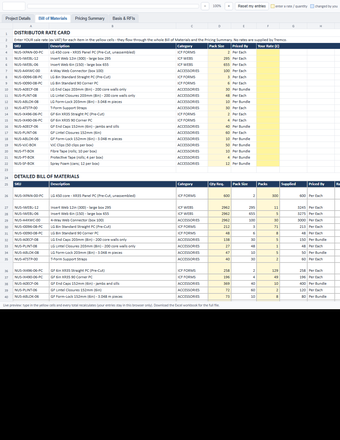
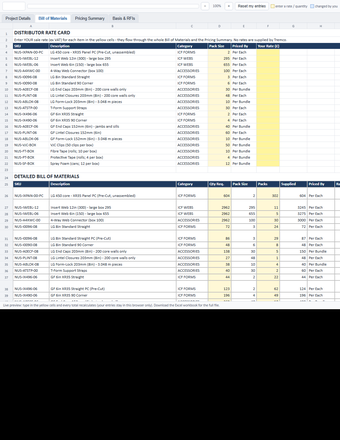
ES26-088 house Distributor BOM corrected: pre-cut forms from the Report Tool optimiser (straights 722 -> 507), 450 panels on measured lengths

Changed region(s): [[0.0, 0.5023, 1.0, 0.7091], [0.2647, 0.1477, 0.3235, 0.2068], [0.2353, 0.2364, 0.3235, 0.2659]]

diff --git a/xls/bom.html b/xls/bom.html
@@ -52,7 +52,7 @@
 <div id="tabs" role="tablist"></div>
 <div id="wrap"><div id="zoomer"><table id="grid"></table></div></div>
 <div id="note">Live preview: type in the yellow cells and every total recalculates (your entries stay in this browser only). Download the Excel workbook for the full file.</div>
-<script id="model" type="application/json">{"sheets":[{"name":"Project Details","cols":[201,495,145,215],"heights":{"13":60,"22":60},"rows":[1,2,3,4,5,6,7,8,9,10,11,12,13,14,15,16,17,18,19,20,21,22],"merges":[[22,1,22,4]],"cells":{"1,1":["Tremco CPG UK Limited",null,0],"2,1":["Cavendish House, Unit 1, Enterprise 36, Barnsley, S75 3DZ",null,1],"3,1":["BUILDEASE PRE-CUT ICF KIT",null,0],"4,1":["DISTRIBUTOR BILL OF MATERIALS",null,0],"6,1":["PROJECT DETAILS",null,2],"7,1":["Estimate Number",null,1],"7,2":["ES26-088",null,1],"8,1":["Date",null,1],"8,2":["02/11/2026",null,1],"9,1":["Valid Until",null,1],"9,2":["02/12/2026",null,1],"10,1":["Site Name",null,1],"10,2":["Badgers Hollow, Alderley Edge",null,1],"11,1":["Client (end user)",null,1],"11,2":["Mr Imran Kara",null,1],"12,1":["Distributor",null,1],"12,2":["Ethos Property Developments (Mark Whalley)",null,1],"13,1":["Scope",null,1],"13,2":["All ICF walls above the basement: Lower Ground (450 + 200 core, BDI S1 02) and GF + FF external walls in 6in XR35. Pre-cut, no waste.",null,3],"15,1":["DISTRIBUTOR DETAILS (please complete)",null,2],"16,1":["Distributor Company Name",null,1],"16,2":["Ethos Property Developments",null,4],"17,1":["Contact Name",null,1],"17,2":["Mark Whalley",null,4],"18,1":["Contact Email",null,1],"18,2":[null,null,4],"19,1":["Contact Phone",null,1],"19,2":[null,null,4],"20,1":["Your Reference",null,1],"20,2":[null,null,4],"22,1":["INSTRUCTIONS: Yellow-highlighted cells are editable. Enter your sale rates on the \"Bill of Materials\" sheet rate card; line totals and the \"Pricing Summary\" sheet update automatically.",null,3]},"freeze":null,"tab":null},{"name":"Bill of Materials","cols":[117,411,103,75,82,75,89,89,117,425,117],"heights":{},"rows":[1,2,3,4,5,6,7,8,9,10,11,12,13,14,15,16,17,18,19,20,21,22,23,24,25,26,27,28,29,30,31,32,33,34,35,36,37,38,39,40,41,42,43,44,45,46,47,48,49],"merges":[],"cells":{"1,1":["DISTRIBUTOR RATE CARD",null,0],"2,1":["Enter YOUR sale rate (ex VAT) for each item in the yellow cells - they flow through the whole Bill of Materials and the Pricing Summary. No rates are supplied by Tremco.",null,1],"3,1":["SKU",null,5],"3,2":["Description",null,5],"3,3":["Category",null,5],"3,4":["Pack Size",null,5],"3,5":["Priced By",null,5],"3,6":["Your Rate (£)",null,5],"4,1":["NUS-IXPAN-00-PC",null,1],"4,2":["LG 450 core - XR35 Panel PC (Pre-Cut, unassembled)",null,1],"4,3":["ICF FORMS",null,1],"4,4":[2,null,1,1],"4,5":["Per Each",null,1],"4,6":[null,null,6,1],"5,1":["NUS-IWEBL-12",null,1],"5,2":["Insert Web 12in (300) - large box 295",null,1],"5,3":["ICF WEBS",null,1],"5,4":[295,null,1,1],"5,5":["Per Each",null,1],"5,6":[null,null,6,1],"6,1":["NUS-IWEBL-06",null,1],"6,2":["Insert Web 6in (150) - large box 655",null,1],"6,3":["ICF WEBS",null,1],"6,4":[655,null,1,1],"6,5":["Per Each",null,1],"6,6":[null,null,6,1],"7,1":["NUS-A4XWC-00",null,1],"7,2":["4-Way Web Connector (box 100)",null,1],"7,3":["ACCESSORIES",null,1],"7,4":[100,null,1,1],"7,5":["Per Each",null,1],"7,6":[null,null,6,1],"8,1":["NUS-I0096-08-PC",null,1],"8,2":["LG 8in Standard Straight PC (Pre-Cut)",null,1],"8,3":["ICF FORMS",null,1],"8,4":[3,null,1,1],"8,5":["Per Each",null,1],"8,6":[null,null,6,1],"9,1":["NUS-I0090-08-PC",null,1],"9,2":["LG 8in Standard 90 Corner PC",null,1],"9,3":["ICF FORMS",null,1],"9,4":[6,null,1,1],"9,5":["Per Each",null,1],"9,6":[null,null,6,1],"10,1":["NUS-A0ECF-08",null,1],"10,2":["LG End Caps 203mm (8in) - 200 core walls only",null,1],"10,3":["ACCESSORIES",null,1],"10,4":[30,null,1,1],"10,5":["Per Bundle",null,1],"10,6":[null,null,6,1],"11,1":["NUS-PLINT-08",null,1],"11,2":["LG Lintel Closures 203mm (8in) - 200 core walls only",null,1],"11,3":["ACCESSORIES",null,1],"11,4":[48,null,1,1],"11,5":["Per Each",null,1],"11,6":[null,null,6,1],"12,1":["NUS-ABLOK-08",null,1],"12,2":["LG Form-Lock 203mm (8in) - 3.048 m pieces",null,1],"12,3":["ACCESSORIES",null,1],"12,4":[10,null,1,1],"12,5":["Per Bundle",null,1],"12,6":[null,null,6,1],"13,1":["NUS-ATSTP-00",null,1],"13,2":["T-Form Support Straps",null,1],"13,3":["ACCESSORIES",null,1],"13,4":[30,null,1,1],"13,5":["Per Each",null,1],"13,6":[null,null,6,1],"14,1":["NUS-IX496-06-PC",null,1],"14,2":["GF 6in XR35 Straight PC (Pre-Cut)",null,1],"14,3":["ICF FORMS",null,1],"14,4":[2,null,1,1],"14,5":["Per Each",null,1],"14,6":[null,null,6,1],"15,1":["NUS-IX490-06-PC",null,1],"15,2":["GF 6in XR35 90 Corner PC",null,1],"15,3":["ICF FORMS",null,1],"15,4":[4,null,1,1],"15,5":["Per Each",null,1],"15,6":[null,null,6,1],"16,1":["NUS-A0ECF-06",null,1],"16,2":["GF End Caps 152mm (6in) - jambs and sills",null,1],"16,3":["ACCESSORIES",null,1],"16,4":[40,null,1,1],"16,5":["Per Bundle",null,1],"16,6":[null,null,6,1],"17,1":["NUS-PLINT-06",null,1],"17,2":["GF Lintel Closures 152mm (6in)",null,1],"17,3":["ACCESSORIES",null,1],"17,4":[60,null,1,1],"17,5":["Per Each",null,1],"17,6":[null,null,6,1],"18,1":["NUS-ABLOK-06",null,1],"18,2":["GF Form-Lock 152mm (6in) - 3.048 m pieces",null,1],"18,3":["ACCESSORIES",null,1],"18,4":[10,null,1,1],"18,5":["Per Bundle",null,1],"18,6":[null,null,6,1],"19,1":["NUS-VJC-BOX",null,1],"19,2":["VJC Clips (50 clips per box)",null,1],"19,3":["ACCESSORIES",null,1],"19,4":[50,null,1,1],"19,5":["Per Bundle",null,1],"19,6":[null,null,6,1],"20,1":["NUS-FT-BOX",null,1],"20,2":["Fibre Tape (rolls; 10 per box)",null,1],"20,3":["ACCESSORIES",null,1],"20,4":[10,null,1,1],"20,5":["Per Bundle",null,1],"20,6":[null,null,6,1],"21,1":["NUS-PT-BOX",null,1],"21,2":["Protective Tape (rolls; 4 per box)",null,1],"21,3":["ACCESSORIES",null,1],"21,4":[4,null,1,1],"21,5":["Per Bundle",null,1],"21,6":[null,null,6,1],"22,1":["NUS-SF-BOX",null,1],"22,2":["Spray Foam (cans; 12 per box)",null,1],"22,3":["ACCESSORIES",null,1],"22,4":[12,null,1,1],"22,5":["Per Bundle",null,1],"22,6":[null,null,6,1],"24,1":["DETAILED BILL OF MATERIALS",null,0],"25,1":["SKU",null,7],"25,2":["Description",null,7],"25,3":["Category",null,7],"25,4":["Qty Req.",null,7],"25,5":["Pack Size",null,7],"25,6":["Packs",null,7],"25,7":["Supplied",null,7],"25,8":["Priced By",null,7],"25,9":["Rate (£)",null,7],"25,10":["Basis / Note",null,7],"25,11":["Extended Total (£)",null,7],"26,1":["NUS-IXPAN-00-PC",null,8],"26,2":["LG 450 core - XR35 Panel PC (Pre-Cut, unassembled)",null,8],"26,3":["ICF FORMS",null,8],"26,4":[600,null,8,1],"26,5":[2,null,8],"26,6":[300,null,8,1],"26,7":[600,null,8],"26,8":["Per Each",null,8],"26,9":[null,"IFERROR(VLOOKUP(A26,$A$4:$F$22,6,FALSE),\"\")",8],"26,10":["model: 200 straights + 120 cut / lapped-corner pieces (100 forms) x 2 panels (corners = lapped straights)",null,9],"26,11":[null,"IF(I26<>\"\",IF(H26=\"Per Bundle\",F26,D26)*I26,0)",10],"27,1":["NUS-IWEBL-12",null,8],"27,2":["Insert Web 12in (300) - large box 295",null,8],"27,3":["ICF WEBS",null,8],"27,4":[2962,null,8,1],"27,5":[295,null,8],"27,6":[11,null,8,1],"27,7":[3245,null,8],"27,8":["Per Each",null,8],"27,9":[null,"IFERROR(VLOOKUP(A27,$A$4:$F$22,6,FALSE),\"\")",8],"27,10":["2962 web positions counted in the model (203 c/c, none in the lapped-corner squares)",null,9],"27,11":[null,"IF(I27<>\"\",IF(H27=\"Per Bundle\",F27,D27)*I27,0)",10],"28,1":["NUS-IWEBL-06",null,8],"28,2":["Insert Web 6in (150) - large box 655",null,8],"28,3":["ICF WEBS",null,8],"28,4":[2962,null,8,1],"28,5":[655,null,8],"28,6":[5,null,8,1],"28,7":[3275,null,8],"28,8":["Per Each",null,8],"28,9":[null,"IFERROR(VLOOKUP(A28,$A$4:$F$22,6,FALSE),\"\")",8],"28,10":["paired with 12in web",null,9],"28,11":[null,"IF(I28<>\"\",IF(H28=\"Per Bundle\",F28,D28)*I28,0)",10],"29,1":["NUS-A4XWC-00",null,8],"29,2":["4-Way Web Connector (box 100)",null,8],"29,3":["ACCESSORIES",null,8],"29,4":[2962,null,8,1],"29,5":[100,null,8],"29,6":[30,null,8,1],"29,7":[3000,null,8],"29,8":["Per Each",null,8],"29,9":[null,"IFERROR(VLOOKUP(A29,$A$4:$F$22,6,FALSE),\"\")",8],"29,10":["one per web pair",null,9],"29,11":[null,"IF(I29<>\"\",IF(H29=\"Per Bundle\",F29,D29)*I29,0)",10],"30,1":["NUS-I0096-08-PC",null,8],"30,2":["LG 8in Standard Straight PC (Pre-Cut)",null,8],"30,3":["ICF FORMS",null,8],"30,4":[212,null,8,1],"30,5":[3,null,8],"30,6":[71,null,8,1],"30,7":[213,null,8],"30,8":["Per Each",null,8],"30,9":[null,"IFERROR(VLOOKUP(A30,$A$4:$F$22,6,FALSE),\"\")",8],"30,10":["model: 182 whole + 84 cut pieces (30 forms)",null,9],"30,11":[null,"IF(I30<>\"\",IF(H30=\"Per Bundle\",F30,D30)*I30,0)",10],"31,1":["NUS-I0090-08-PC",null,8],"31,2":["LG 8in Standard 90 Corner PC",null,8],"31,3":["ICF FORMS",null,8],"31,4":[48,null,8,1],"31,5":[6,null,8],"31,6":[8,null,8,1],"31,7":[48,null,8],"31,8":["Per Each",null,8],"31,9":[null,"IFERROR(VLOOKUP(A31,$A$4:$F$22,6,FALSE),\"\")",8],"31,10":["model: 6 corners x 8 courses",null,9],"31,11":[null,"IF(I31<>\"\",IF(H31=\"Per Bundle\",F31,D31)*I31,0)",10],"32,1":["NUS-A0ECF-08",null,8],"32,2":["LG End Caps 203mm (8in) - 200 core walls only",null,8],"32,3":["ACCESSORIES",null,8],"32,4":[138,null,8,1],"32,5":[30,null,8],"32,6":[5,null,8,1],"32,7":[150,null,8],"32,8":["Per Bundle",null,8],"32,9":[null,"IFERROR(VLOOKUP(A32,$A$4:$F$22,6,FALSE),\"\")",8],"32,10":["8 openings in the 200 walls (jambs) + 6 free wall ends x 8 courses",null,9],"32,11":[null,"IF(I32<>\"\",IF(H32=\"Per Bundle\",F32,D32)*I32,0)",10],"33,1":["NUS-PLINT-08",null,8],"33,2":["LG Lintel Closures 203mm (8in) - 200 core walls only",null,8],"33,3":["ACCESSORIES",null,8],"33,4":[27,null,8,1],"33,5":[48,null,8],"33,6":[1,null,8,1],"33,7":[48,null,8],"33,8":["Per Each",null,8],"33,9":[null,"IFERROR(VLOOKUP(A33,$A$4:$F$22,6,FALSE),\"\")",8],"33,10":["opening heads in the 200 walls",null,9],"33,11":[null,"IF(I33<>\"\",IF(H33=\"Per Bundle\",F33,D33)*I33,0)",10],"34,1":["NUS-ABLOK-08",null,8],"34,2":["LG Form-Lock 203mm (8in) - 3.048 m pieces",null,8],"34,3":["ACCESSORIES",null,8],"34,4":[47,null,8,1],"34,5":[10,null,8],"34,6":[5,null,8,1],"34,7":[50,null,8],"34,8":["Per Bundle",null,8],"34,9":[null,"IFERROR(VLOOKUP(A34,$A$4:$F$22,6,FALSE),\"\")",8],"34,10":["first + last course, 70.4 m of 200 wall",null,9],"34,11":[null,"IF(I34<>\"\",IF(H34=\"Per Bundle\",F34,D34)*I34,0)",10],"35,1":["NUS-ATSTP-00",null,8],"35,2":["T-Form Support Straps",null,8],"35,3":["ACCESSORIES",null,8],"35,4":[40,null,8,1],"35,5":[30,null,8],"35,6":[2,null,8,1],"35,7":[60,null,8],"35,8":["Per Each",null,8],"35,9":[null,"IFERROR(VLOOKUP(A35,$A$4:$F$22,6,FALSE),\"\")",8],"35,10":["5 T junctions x 8 courses",null,9],"35,11":[null,"IF(I35<>\"\",IF(H35=\"Per Bundle\",F35,D35)*I35,0)",10],"36,1":["NUS-IX496-06-PC",null,8],"36,2":["GF 6in XR35 Straight PC (Pre-Cut)",null,8],"36,3":["ICF FORMS",null,8],"36,4":[258,null,8,1],"36,5":[2,null,8],"36,6":[129,null,8,1],"36,7":[258,null,8],"36,8":["Per Each",null,8],"36,9":[null,"IFERROR(VLOOKUP(A36,$A$4:$F$22,6,FALSE),\"\")",8],"36,10":["model: 227 whole + 90 cut pieces (31 forms); 110.7 m outer face x 7 courses, 27 openings 38.4 m",null,9],"36,11":[null,"IF(I36<>\"\",IF(H36=\"Per Bundle\",F36,D36)*I36,0)",10],"37,1":["NUS-IX490-06-PC",null,8],"37,2":["GF 6in XR35 90 Corner PC",null,8],"37,3":["ICF FORMS",null,8],"37,4":[196,null,8,1],"37,5":[4,null,8],"37,6":[49,null,8,1],"37,7":[196,null,8],"37,8":["Per Each",null,8],"37,9":[null,"IFERROR(VLOOKUP(A37,$A$4:$F$22,6,FALSE),\"\")",8],"37,10":["model: 28 corners x 7 courses",null,9],"37,11":[null,"IF(I37<>\"\",IF(H37=\"Per Bundle\",F37,D37)*I37,0)",10],"38,1":["NUS-A0ECF-06",null,8],"38,2":["GF End Caps 152mm (6in) - jambs and sills",null,8],"38,3":["ACCESSORIES",null,8],"38,4":[369,null,8,1],"38,5":[40,null,8],"38,6":[10,null,8,1],"38,7":[400,null,8],"38,8":["Per Bundle",null,8],"38,9":[null,"IFERROR(VLOOKUP(A38,$A$4:$F$22,6,FALSE),\"\")",8],"38,10":["27 openings; XR35-specific end cap to be confirmed",null,9],"38,11":[null,"IF(I38<>\"\",IF(H38=\"Per Bundle\",F38,D38)*I38,0)",10],"39,1":["NUS-PLINT-06",null,8],"39,2":["GF Lintel Closures 152mm (6in)",null,8],"39,3":["ACCESSORIES",null,8],"39,4":[72,null,8,1],"39,5":[60,null,8],"39,6":[2,null,8,1],"39,7":[120,null,8],"39,8":["Per Each",null,8],"39,9":[null,"IFERROR(VLOOKUP(A39,$A$4:$F$22,6,FALSE),\"\")",8],"39,10":["opening heads",null,9],"39,11":[null,"IF(I39<>\"\",IF(H39=\"Per Bundle\",F39,D39)*I39,0)",10],"40,1":["NUS-ABLOK-06",null,8],"40,2":["GF Form-Lock 152mm (6in) - 3.048 m pieces",null,8],"40,3":["ACCESSORIES",null,8],"40,4":[73,null,8,1],"40,5":[10,null,8],"40,6":[8,null,8,1],"40,7":[80,null,8],"40,8":["Per Bundle",null,8],"40,9":[null,"IFERROR(VLOOKUP(A40,$A$4:$F$22,6,FALSE),\"\")",8],"40,10":["first + last course of the level",null,9],"40,11":[null,"IF(I40<>\"\",IF(H40=\"Per Bundle\",F40,D40)*I40,0)",10],"41,1":["NUS-IX496-06-PC",null,8],"41,2":["FF 6in XR35 Straight PC (Pre-Cut)",null,8],"41,3":["ICF FORMS",null,8],"41,4":[252,null,8,1],"41,5":[2,null,8],"41,6":[126,null,8,1],"41,7":[252,null,8],"41,8":["Per Each",null,8],"41,9":[null,"IFERROR(VLOOKUP(A41,$A$4:$F$22,6,FALSE),\"\")",8],"41,10":["model: 214 whole + 84 cut pieces (38 forms); 107.4 m outer face x 6 courses, 22 openings 18.9 m",null,9],"41,11":[null,"IF(I41<>\"\",IF(H41=\"Per Bundle\",F41,D41)*I41,0)",10],"42,1":["NUS-IX490-06-PC",null,8],"42,2":["FF 6in XR35 90 Corner PC",null,8],"42,3":["ICF FORMS",null,8],"42,4":[120,null,8,1],"42,5":[4,null,8],"42,6":[30,null,8,1],"42,7":[120,null,8],"42,8":["Per Each",null,8],"42,9":[null,"IFERROR(VLOOKUP(A42,$A$4:$F$22,6,FALSE),\"\")",8],"42,10":["model: 20 corners x 6 courses",null,9],"42,11":[null,"IF(I42<>\"\",IF(H42=\"Per Bundle\",F42,D42)*I42,0)",10],"43,1":["NUS-A0ECF-06",null,8],"43,2":["FF End Caps 152mm (6in) - jambs and sills",null,8],"43,3":["ACCESSORIES",null,8],"43,4":[228,null,8,1],"43,5":[40,null,8],"43,6":[6,null,8,1],"43,7":[240,null,8],"43,8":["Per Bundle",null,8],"43,9":[null,"IFERROR(VLOOKUP(A43,$A$4:$F$22,6,FALSE),\"\")",8],"43,10":["22 openings; XR35-specific end cap to be confirmed",null,9],"43,11":[null,"IF(I43<>\"\",IF(H43=\"Per Bundle\",F43,D43)*I43,0)",10],"44,1":["NUS-PLINT-06",null,8],"44,2":["FF Lintel Closures 152mm (6in)",null,8],"44,3":["ACCESSORIES",null,8],"44,4":[48,null,8,1],"44,5":[60,null,8],"44,6":[1,null,8,1],"44,7":[60,null,8],"44,8":["Per Each",null,8],"44,9":[null,"IFERROR(VLOOKUP(A44,$A$4:$F$22,6,FALSE),\"\")",8],"44,10":["opening heads",null,9],"44,11":[null,"IF(I44<>\"\",IF(H44=\"Per Bundle\",F44,D44)*I44,0)",10],"45,1":["NUS-ABLOK-06",null,8],"45,2":["FF Form-Lock 152mm (6in) - 3.048 m pieces",null,8],"45,3":["ACCESSORIES",null,8],"45,4":[71,null,8,1],"45,5":[10,null,8],"45,6":[8,null,8,1],"45,7":[80,null,8],"45,8":["Per Bundle",null,8],"45,9":[null,"IFERROR(VLOOKUP(A45,$A$4:$F$22,6,FALSE),\"\")",8],"45,10":["first + last course of the level",null,9],"45,11":[null,"IF(I45<>\"\",IF(H45=\"Per Bundle\",F45,D45)*I45,0)",10],"46,1":["NUS-VJC-BOX",null,8],"46,2":["VJC Clips (50 clips per box)",null,8],"46,3":["ACCESSORIES",null,8],"46,4":[2772,null,8,1],"46,5":[50,null,8],"46,6":[56,null,8,1],"46,7":[2800,null,8],"46,8":["Per Bundle",null,8],"46,9":[null,"IFERROR(VLOOKUP(A46,$A$4:$F$22,6,FALSE),\"\")",8],"46,10":["2 per vertical joint",null,9],"46,11":[null,"IF(I46<>\"\",IF(H46=\"Per Bundle\",F46,D46)*I46,0)",10],"47,1":["NUS-FT-BOX",null,8],"47,2":["Fibre Tape (rolls; 10 per box)",null,8],"47,3":["ACCESSORIES",null,8],"47,4":[28,null,8,1],"47,5":[10,null,8],"47,6":[3,null,8,1],"47,7":[30,null,8],"47,8":["Per Bundle",null,8],"47,9":[null,"IFERROR(VLOOKUP(A47,$A$4:$F$22,6,FALSE),\"\")",8],"47,10":["1 roll / 50 forms",null,9],"47,11":[null,"IF(I47<>\"\",IF(H47=\"Per Bundle\",F47,D47)*I47,0)",10],"48,1":["NUS-PT-BOX",null,8],"48,2":["Protective Tape (rolls; 4 per box)",null,8],"48,3":["ACCESSORIES",null,8],"48,4":[69,null,8,1],"48,5":[4,null,8],"48,6":[18,null,8,1],"48,7":[72,null,8],"48,8":["Per Bundle",null,8],"48,9":[null,"IFERROR(VLOOKUP(A48,$A$4:$F$22,6,FALSE),\"\")",8],"48,10":["per course, both sides",null,9],"48,11":[null,"IF(I48<>\"\",IF(H48=\"Per Bundle\",F48,D48)*I48,0)",10],"49,1":["NUS-SF-BOX",null,8],"49,2":["Spray Foam (cans; 12 per box)",null,8],"49,3":["ACCESSORIES",null,8],"49,4":[63,null,8,1],"49,5":[12,null,8],"49,6":[6,null,8,1],"49,7":[72,null,8],"49,8":["Per Bundle",null,8],"49,9":[null,"IFERROR(VLOOKUP(A49,$A$4:$F$22,6,FALSE),\"\")",8],"49,10":["1 can / 22 forms",null,9],"49,11":[null,"IF(I49<>\"\",IF(H49=\"Per Bundle\",F49,D49)*I49,0)",10]},"freeze":"A26","tab":null},{"name":"Pricing Summary","cols":[243,131],"heights":{},"rows":[1,2,3,4,5],"merges":[],"cells":{"1,1":["PRICING SUMMARY (from your rates)",null,0],"2,1":["ICF FORMS",null,1],"2,2":[null,"SUMIF('Bill of Materials'!C26:C49,\"ICF FORMS\",'Bill of Materials'!K26:K49)",11],"3,1":["ICF WEBS",null,1],"3,2":[null,"SUMIF('Bill of Materials'!C26:C49,\"ICF WEBS\",'Bill of Materials'!K26:K49)",11],"4,1":["ACCESSORIES",null,1],"4,2":[null,"SUMIF('Bill of Materials'!C26:C49,\"ACCESSORIES\",'Bill of Materials'!K26:K49)",11],"5,1":["TOTAL (ex VAT)",null,2],"5,2":[null,"SUM('Bill of Materials'!K26:K49)",11]},"freeze":null,"tab":null},{"name":"Basis & RFIs","cols":[1055],"heights":{},"rows":[1,2,3,4,5,6,7,8,9,10,11,12,13,14,15,16,17,18,19,20,21,22,23,24],"merges":[],"cells":{"1,1":["BASIS OF TAKE-OFF",null,0],"2,1":["- QUANTITIES TAKEN FROM THE BUILDEASE 3D MODEL (BCDS): every form placed course by course, Nudura bond checked per run, stack joints set, webs audited; pre-cut, no waste.",null,3],"3,1":["- LG: BDI 20164022 S1 02 C4 ICF walls - 450 core (blue) and 200 core (green) - from transfer deck SSL-1 43,262 to Top of ICF 46,587 (3,325 mm = 7 courses + a 125 mm pre-cut top course). Section B (S3 02 C4) confirms levels.",null,3],"4,1":["- LG run (model): 450 core 91.1 m, 200 core 70.4 m per course. S1 02 W wall 310 mm step and two 1.55 m pier boxes built straight on one 450 line; 450 walls butt the 200 front wall (no corner forms) - RFI.",null,3],"5,1":["- LG 450 core: unassembled XR35 panels + 12in/6in insert webs + 4-Way Web Connectors; every 90 corner = two straights butting and lapping, swapping every course (inner panel pre-cut back, no 450 corner form).",null,3],"6,1":["- 450 core OPENINGS: no Nudura end caps or lintel closures - timber bucks + head formwork BY OTHERS (first option), alternatively unassembled panels cut to suit. None drawn in the LG 450 walls at present.",null,3],"7,1":["- LG 200 walls: openings at the S1 02 gaps - pool front glazing 2,743 mm high (6 courses), plant-room doors 2,100; 8in end caps / lintel closures.",null,3],"8,1":["- GF/FF: the architect's external walls (Badgers Hollow - Proposed Layouts) in 6in XR35 per Tom 02.11, outline traced at 42.5 mm/pt (checked against BDI 1:50: 24.1 m vs 24.2 m overall). Chimney breasts and steps < 500 mm built straight.",null,3],"9,1":["- GF: 110.7 m outer face, 28 corners, 27 openings 38.4 m (head 2,400, 2.1 m high). FF: 107.4 m, 20 corners, 22 openings 18.9 m (head 2,400, 1.7 m high). Openings from the plan gaps; schedule RFI.",null,3],"10,1":["- GF+FF continuous from SSL0 46,987 to U/S wall plate 52,962 = 5,975 mm = 13 courses (5,944) + 31 mm packing at the plate; GF 7 courses on the GF outline, FF 6 on the FF outline.",null,3],"11,1":["- No elevations issued - gables, chimneys above the plate, parapets and exact opening heights are EXCLUDED/assumed; RFI raised.",null,3],"12,1":["- Internal walls at GF/FF excluded. Alignment, rebar, concrete, floor ledgers by others.",null,3],"14,1":["QUERIES / RFIs",null,0],"15,1":["- Elevations required: gable walls, chimneys and any walls above the wall plate are not included.",null,3],"16,1":["- Window/door schedule (sizes + head/sill heights) - openings taken from the plan gaps, heads 2,400 (GF 2.1 m / FF 1.7 m high).",null,3],"17,1":["- LG W wall step / pier boxes and the 450-to-200 butt junctions at the pool front - modelled straight / butted; BDI to confirm.",null,3],"18,1":["- Nudura bond near-misses (6-10 mm off a bond length) on GF/FF runs 567 / 5,037 / 7,052 mm - confirm dims to set them ON bond (no stack joint).",null,3],"19,1":["- Confirm no part of the Lower Ground ICF is already built (Mark: 'built part of the basement already').",null,3],"20,1":["- Confirm GF/FF internal load-bearing walls stay blockwork (not ICF).",null,3],"21,1":["- BDI to confirm the 6in XR35 (152 core) external walls for GF/FF and the floor deck bearing/ledger detail into the ICF.",null,3],"22,1":["- 450 core build-up as BOM A: 12in + 6in webs on a 4-Way Web Connector (adopted 02.11.26).",null,3],"23,1":["- 450 core panels = NUS-IXPAN-00-PC XR35 Panel; insert webs + 4-Way Web Connector not on the UK price list - availability via Tremco.",null,3],"24,1":["- Quantities only: enter your own sale rates in the rate card. Alignment, haulage and site works are not included.",null,3]},"freeze":null,"tab":null}],"styles":[{"b":1,"sz":13.0},{},{"b":1},{"wr":1},{"bg":"#fff59d"},{"b":1,"fc":"#ffffff","bg":"#1f3a5f"},{"bg":"#fff59d","nf":"#,##0.00"},{"b":1,"fc":"#ffffff","bg":"#1f3a5f","bt":[1,"#bfbfbf"],"bb":[1,"#bfbfbf"],"bl":[1,"#bfbfbf"],"br":[1,"#bfbfbf"]},{"bt":[1,"#bfbfbf"],"bb":[1,"#bfbfbf"],"bl":[1,"#bfbfbf"],"br":[1,"#bfbfbf"]},{"wr":1,"bt":[1,"#bfbfbf"],"bb":[1,"#bfbfbf"],"bl":[1,"#bfbfbf"],"br":[1,"#bfbfbf"]},{"bt":[1,"#bfbfbf"],"bb":[1,"#bfbfbf"],"bl":[1,"#bfbfbf"],"br":[1,"#bfbfbf"],"nf":"#,##0.00"},{"nf":"£#,##0.00"}],"names":{},"start":"Bill of Materials"}</script>
+<script id="model" type="application/json">{"sheets":[{"name":"Project Details","cols":[201,495,145,215],"heights":{"13":60,"22":60},"rows":[1,2,3,4,5,6,7,8,9,10,11,12,13,14,15,16,17,18,19,20,21,22],"merges":[[22,1,22,4]],"cells":{"1,1":["Tremco CPG UK Limited",null,0],"2,1":["Cavendish House, Unit 1, Enterprise 36, Barnsley, S75 3DZ",null,1],"3,1":["BUILDEASE PRE-CUT ICF KIT",null,0],"4,1":["DISTRIBUTOR BILL OF MATERIALS",null,0],"6,1":["PROJECT DETAILS",null,2],"7,1":["Estimate Number",null,1],"7,2":["ES26-088",null,1],"8,1":["Date",null,1],"8,2":["02/11/2026",null,1],"9,1":["Valid Until",null,1],"9,2":["02/12/2026",null,1],"10,1":["Site Name",null,1],"10,2":["Badgers Hollow, Alderley Edge",null,1],"11,1":["Client (end user)",null,1],"11,2":["Mr Imran Kara",null,1],"12,1":["Distributor",null,1],"12,2":["Ethos Property Developments (Mark Whalley)",null,1],"13,1":["Scope",null,1],"13,2":["All ICF walls above the basement: Lower Ground (450 + 200 core, BDI S1 02) and GF + FF external walls in 6in XR35. Pre-cut, no waste.",null,3],"15,1":["DISTRIBUTOR DETAILS (please complete)",null,2],"16,1":["Distributor Company Name",null,1],"16,2":["Ethos Property Developments",null,4],"17,1":["Contact Name",null,1],"17,2":["Mark Whalley",null,4],"18,1":["Contact Email",null,1],"18,2":[null,null,4],"19,1":["Contact Phone",null,1],"19,2":[null,null,4],"20,1":["Your Reference",null,1],"20,2":[null,null,4],"22,1":["INSTRUCTIONS: Yellow-highlighted cells are editable. Enter your sale rates on the \"Bill of Materials\" sheet rate card; line totals and the \"Pricing Summary\" sheet update automatically.",null,3]},"freeze":null,"tab":null},{"name":"Bill of Materials","cols":[117,411,103,75,82,75,89,89,117,425,117],"heights":{},"rows":[1,2,3,4,5,6,7,8,9,10,11,12,13,14,15,16,17,18,19,20,21,22,23,24,25,26,27,28,29,30,31,32,33,34,35,36,37,38,39,40,41,42,43,44,45,46,47,48,49,50,51,52],"merges":[],"cells":{"1,1":["DISTRIBUTOR RATE CARD",null,0],"2,1":["Enter YOUR sale rate (ex VAT) for each item in the yellow cells - they flow through the whole Bill of Materials and the Pricing Summary. No rates are supplied by Tremco.",null,1],"3,1":["SKU",null,5],"3,2":["Description",null,5],"3,3":["Category",null,5],"3,4":["Pack Size",null,5],"3,5":["Priced By",null,5],"3,6":["Your Rate (£)",null,5],"4,1":["NUS-IXPAN-00-PC",null,1],"4,2":["LG 450 core - XR35 Panel PC (Pre-Cut, unassembled)",null,1],"4,3":["ICF FORMS",null,1],"4,4":[2,null,1,1],"4,5":["Per Each",null,1],"4,6":[null,null,6,1],"5,1":["NUS-IWEBL-12",null,1],"5,2":["Insert Web 12in (300) - large box 295",null,1],"5,3":["ICF WEBS",null,1],"5,4":[295,null,1,1],"5,5":["Per Each",null,1],"5,6":[null,null,6,1],"6,1":["NUS-IWEBL-06",null,1],"6,2":["Insert Web 6in (150) - large box 655",null,1],"6,3":["ICF WEBS",null,1],"6,4":[655,null,1,1],"6,5":["Per Each",null,1],"6,6":[null,null,6,1],"7,1":["NUS-A4XWC-00",null,1],"7,2":["4-Way Web Connector (box 100)",null,1],"7,3":["ACCESSORIES",null,1],"7,4":[100,null,1,1],"7,5":["Per Each",null,1],"7,6":[null,null,6,1],"8,1":["NUS-I0096-08",null,1],"8,2":["LG 8in Standard Straight",null,1],"8,3":["ICF FORMS",null,1],"8,4":[3,null,1,1],"8,5":["Per Each",null,1],"8,6":[null,null,6,1],"9,1":["NUS-I0090-08",null,1],"9,2":["LG 8in Standard 90 Corner",null,1],"9,3":["ICF FORMS",null,1],"9,4":[6,null,1,1],"9,5":["Per Each",null,1],"9,6":[null,null,6,1],"10,1":["NUS-A0ECF-08",null,1],"10,2":["LG End Caps 203mm (8in) - 200 core walls only",null,1],"10,3":["ACCESSORIES",null,1],"10,4":[30,null,1,1],"10,5":["Per Bundle",null,1],"10,6":[null,null,6,1],"11,1":["NUS-PLINT-08",null,1],"11,2":["LG Lintel Closures 203mm (8in) - 200 core walls only",null,1],"11,3":["ACCESSORIES",null,1],"11,4":[48,null,1,1],"11,5":["Per Each",null,1],"11,6":[null,null,6,1],"12,1":["NUS-ABLOK-08",null,1],"12,2":["LG Form-Lock 203mm (8in) - 3.048 m pieces",null,1],"12,3":["ACCESSORIES",null,1],"12,4":[10,null,1,1],"12,5":["Per Bundle",null,1],"12,6":[null,null,6,1],"13,1":["NUS-ATSTP-00",null,1],"13,2":["T-Form Support Straps",null,1],"13,3":["ACCESSORIES",null,1],"13,4":[30,null,1,1],"13,5":["Per Each",null,1],"13,6":[null,null,6,1],"14,1":["NUS-IX496-06",null,1],"14,2":["GF 6in XR35 Straight",null,1],"14,3":["ICF FORMS",null,1],"14,4":[2,null,1,1],"14,5":["Per Each",null,1],"14,6":[null,null,6,1],"15,1":["NUS-IX490-06",null,1],"15,2":["GF 6in XR35 90 Corner",null,1],"15,3":["ICF FORMS",null,1],"15,4":[4,null,1,1],"15,5":["Per Each",null,1],"15,6":[null,null,6,1],"16,1":["NUS-A0ECF-06",null,1],"16,2":["GF End Caps 152mm (6in) - jambs and sills",null,1],"16,3":["ACCESSORIES",null,1],"16,4":[40,null,1,1],"16,5":["Per Bundle",null,1],"16,6":[null,null,6,1],"17,1":["NUS-PLINT-06",null,1],"17,2":["GF Lintel Closures 152mm (6in)",null,1],"17,3":["ACCESSORIES",null,1],"17,4":[60,null,1,1],"17,5":["Per Each",null,1],"17,6":[null,null,6,1],"18,1":["NUS-ABLOK-06",null,1],"18,2":["GF Form-Lock 152mm (6in) - 3.048 m pieces",null,1],"18,3":["ACCESSORIES",null,1],"18,4":[10,null,1,1],"18,5":["Per Bundle",null,1],"18,6":[null,null,6,1],"19,1":["NUS-VJC-BOX",null,1],"19,2":["VJC Clips (50 clips per box)",null,1],"19,3":["ACCESSORIES",null,1],"19,4":[50,null,1,1],"19,5":["Per Bundle",null,1],"19,6":[null,null,6,1],"20,1":["NUS-FT-BOX",null,1],"20,2":["Fibre Tape (rolls; 10 per box)",null,1],"20,3":["ACCESSORIES",null,1],"20,4":[10,null,1,1],"20,5":["Per Bundle",null,1],"20,6":[null,null,6,1],"21,1":["NUS-PT-BOX",null,1],"21,2":["Protective Tape (rolls; 4 per box)",null,1],"21,3":["ACCESSORIES",null,1],"21,4":[4,null,1,1],"21,5":["Per Bundle",null,1],"21,6":[null,null,6,1],"22,1":["NUS-SF-BOX",null,1],"22,2":["Spray Foam (cans; 12 per box)",null,1],"22,3":["ACCESSORIES",null,1],"22,4":[12,null,1,1],"22,5":["Per Bundle",null,1],"22,6":[null,null,6,1],"24,1":["DETAILED BILL OF MATERIALS",null,0],"25,1":["SKU",null,7],"25,2":["Description",null,7],"25,3":["Category",null,7],"25,4":["Qty Req.",null,7],"25,5":["Pack Size",null,7],"25,6":["Packs",null,7],"25,7":["Supplied",null,7],"25,8":["Priced By",null,7],"25,9":["Rate (£)",null,7],"25,10":["Basis / Note",null,7],"25,11":["Extended Total (£)",null,7],"26,1":["NUS-IXPAN-00-PC",null,8],"26,2":["LG 450 core - XR35 Panel PC (Pre-Cut, unassembled)",null,8],"26,3":["ICF FORMS",null,8],"26,4":[604,null,8,1],"26,5":[2,null,8],"26,6":[302,null,8,1],"26,7":[604,null,8],"26,8":["Per Each",null,8],"26,9":[null,"IFERROR(VLOOKUP(A26,$A$4:$F$22,6,FALSE),\"\")",8],"26,10":["model: 142 whole + 178 cut / lapped-corner pieces nested into 160 forms (measured lengths) x 2 panels; corners = lapped straights",null,9],"26,11":[null,"IF(I26<>\"\",IF(H26=\"Per Bundle\",F26,D26)*I26,0)",10],"27,1":["NUS-IWEBL-12",null,8],"27,2":["Insert Web 12in (300) - large box 295",null,8],"27,3":["ICF WEBS",null,8],"27,4":[2962,null,8,1],"27,5":[295,null,8],"27,6":[11,null,8,1],"27,7":[3245,null,8],"27,8":["Per Each",null,8],"27,9":[null,"IFERROR(VLOOKUP(A27,$A$4:$F$22,6,FALSE),\"\")",8],"27,10":["2962 web positions counted in the model (203 c/c, none in the lapped-corner squares)",null,9],"27,11":[null,"IF(I27<>\"\",IF(H27=\"Per Bundle\",F27,D27)*I27,0)",10],"28,1":["NUS-IWEBL-06",null,8],"28,2":["Insert Web 6in (150) - large box 655",null,8],"28,3":["ICF WEBS",null,8],"28,4":[2962,null,8,1],"28,5":[655,null,8],"28,6":[5,null,8,1],"28,7":[3275,null,8],"28,8":["Per Each",null,8],"28,9":[null,"IFERROR(VLOOKUP(A28,$A$4:$F$22,6,FALSE),\"\")",8],"28,10":["paired with 12in web",null,9],"28,11":[null,"IF(I28<>\"\",IF(H28=\"Per Bundle\",F28,D28)*I28,0)",10],"29,1":["NUS-A4XWC-00",null,8],"29,2":["4-Way Web Connector (box 100)",null,8],"29,3":["ACCESSORIES",null,8],"29,4":[2962,null,8,1],"29,5":[100,null,8],"29,6":[30,null,8,1],"29,7":[3000,null,8],"29,8":["Per Each",null,8],"29,9":[null,"IFERROR(VLOOKUP(A29,$A$4:$F$22,6,FALSE),\"\")",8],"29,10":["one per web pair",null,9],"29,11":[null,"IF(I29<>\"\",IF(H29=\"Per Bundle\",F29,D29)*I29,0)",10],"30,1":["NUS-I0096-08",null,8],"30,2":["LG 8in Standard Straight",null,8],"30,3":["ICF FORMS",null,8],"30,4":[72,null,8,1],"30,5":[3,null,8],"30,6":[24,null,8,1],"30,7":[72,null,8],"30,8":["Per Each",null,8],"30,9":[null,"IFERROR(VLOOKUP(A30,$A$4:$F$22,6,FALSE),\"\")",8],"30,10":["Report Tool: whole forms, no cut",null,9],"30,11":[null,"IF(I30<>\"\",IF(H30=\"Per Bundle\",F30,D30)*I30,0)",10],"31,1":["NUS-I0096-08",null,8],"31,2":["LG 8in Standard Straight PC (Pre-Cut)",null,8],"31,3":["ICF FORMS",null,8],"31,4":[86,null,8,1],"31,5":[3,null,8],"31,6":[29,null,8,1],"31,7":[87,null,8],"31,8":["Per Each",null,8],"31,9":[null,"IFERROR(VLOOKUP(A31,$A$4:$F$22,6,FALSE),\"\")",8],"31,10":["Report Tool optimiser: 194 cut pieces -> 86 pre-cut forms (12.9% waste, whole level)",null,9],"31,11":[null,"IF(I31<>\"\",IF(H31=\"Per Bundle\",F31,D31)*I31,0)",10],"32,1":["NUS-I0090-08",null,8],"32,2":["LG 8in Standard 90 Corner",null,8],"32,3":["ICF FORMS",null,8],"32,4":[48,null,8,1],"32,5":[6,null,8],"32,6":[8,null,8,1],"32,7":[48,null,8],"32,8":["Per Each",null,8],"32,9":[null,"IFERROR(VLOOKUP(A32,$A$4:$F$22,6,FALSE),\"\")",8],"32,10":["Report Tool: 6 corners x 8 courses",null,9],"32,11":[null,"IF(I32<>\"\",IF(H32=\"Per Bundle\",F32,D32)*I32,0)",10],"33,1":["NUS-A0ECF-08",null,8],"33,2":["LG End Caps 203mm (8in) - 200 core walls only",null,8],"33,3":["ACCESSORIES",null,8],"33,4":[138,null,8,1],"33,5":[30,null,8],"33,6":[5,null,8,1],"33,7":[150,null,8],"33,8":["Per Bundle",null,8],"33,9":[null,"IFERROR(VLOOKUP(A33,$A$4:$F$22,6,FALSE),\"\")",8],"33,10":["8 openings in the 200 walls (jambs) + 6 free wall ends x 8 courses",null,9],"33,11":[null,"IF(I33<>\"\",IF(H33=\"Per Bundle\",F33,D33)*I33,0)",10],"34,1":["NUS-PLINT-08",null,8],"34,2":["LG Lintel Closures 203mm (8in) - 200 core walls only",null,8],"34,3":["ACCESSORIES",null,8],"34,4":[27,null,8,1],"34,5":[48,null,8],"34,6":[1,null,8,1],"34,7":[48,null,8],"34,8":["Per Each",null,8],"34,9":[null,"IFERROR(VLOOKUP(A34,$A$4:$F$22,6,FALSE),\"\")",8],"34,10":["opening heads in the 200 walls",null,9],"34,11":[null,"IF(I34<>\"\",IF(H34=\"Per Bundle\",F34,D34)*I34,0)",10],"35,1":["NUS-ABLOK-08",null,8],"35,2":["LG Form-Lock 203mm (8in) - 3.048 m pieces",null,8],"35,3":["ACCESSORIES",null,8],"35,4":[38,null,8,1],"35,5":[10,null,8],"35,6":[4,null,8,1],"35,7":[40,null,8],"35,8":["Per Bundle",null,8],"35,9":[null,"IFERROR(VLOOKUP(A35,$A$4:$F$22,6,FALSE),\"\")",8],"35,10":["first + last course, 56.8 m of 200 wall",null,9],"35,11":[null,"IF(I35<>\"\",IF(H35=\"Per Bundle\",F35,D35)*I35,0)",10],"36,1":["NUS-ATSTP-00",null,8],"36,2":["T-Form Support Straps",null,8],"36,3":["ACCESSORIES",null,8],"36,4":[40,null,8,1],"36,5":[30,null,8],"36,6":[2,null,8,1],"36,7":[60,null,8],"36,8":["Per Each",null,8],"36,9":[null,"IFERROR(VLOOKUP(A36,$A$4:$F$22,6,FALSE),\"\")",8],"36,10":["5 T junctions x 8 courses",null,9],"36,11":[null,"IF(I36<>\"\",IF(H36=\"Per Bundle\",F36,D36)*I36,0)",10],"37,1":["NUS-IX496-06",null,8],"37,2":["GF 6in XR35 Straight",null,8],"37,3":["ICF FORMS",null,8],"37,4":[44,null,8,1],"37,5":[2,null,8],"37,6":[22,null,8,1],"37,7":[44,null,8],"37,8":["Per Each",null,8],"37,9":[null,"IFERROR(VLOOKUP(A37,$A$4:$F$22,6,FALSE),\"\")",8],"37,10":["Report Tool: whole forms, no cut",null,9],"37,11":[null,"IF(I37<>\"\",IF(H37=\"Per Bundle\",F37,D37)*I37,0)",10],"38,1":["NUS-IX496-06",null,8],"38,2":["GF 6in XR35 Straight PC (Pre-Cut)",null,8],"38,3":["ICF FORMS",null,8],"38,4":[123,null,8,1],"38,5":[2,null,8],"38,6":[62,null,8,1],"38,7":[124,null,8],"38,8":["Per Each",null,8],"38,9":[null,"IFERROR(VLOOKUP(A38,$A$4:$F$22,6,FALSE),\"\")",8],"38,10":["Report Tool optimiser: 273 cut pieces -> 123 pre-cut forms (12.7% waste, whole level)",null,9],"38,11":[null,"IF(I38<>\"\",IF(H38=\"Per Bundle\",F38,D38)*I38,0)",10],"39,1":["NUS-IX490-06",null,8],"39,2":["GF 6in XR35 90 Corner",null,8],"39,3":["ICF FORMS",null,8],"39,4":[196,null,8,1],"39,5":[4,null,8],"39,6":[49,null,8,1],"39,7":[196,null,8],"39,8":["Per Each",null,8],"39,9":[null,"IFERROR(VLOOKUP(A39,$A$4:$F$22,6,FALSE),\"\")",8],"39,10":["Report Tool: 28 corners x 7 courses",null,9],"39,11":[null,"IF(I39<>\"\",IF(H39=\"Per Bundle\",F39,D39)*I39,0)",10],"40,1":["NUS-A0ECF-06",null,8],"40,2":["GF End Caps 152mm (6in) - jambs and sills",null,8],"40,3":["ACCESSORIES",null,8],"40,4":[369,null,8,1],"40,5":[40,null,8],"40,6":[10,null,8,1],"40,7":[400,null,8],"40,8":["Per Bundle",null,8],"40,9":[null,"IFERROR(VLOOKUP(A40,$A$4:$F$22,6,FALSE),\"\")",8],"40,10":["27 openings; XR35-specific end cap to be confirmed",null,9],"40,11":[null,"IF(I40<>\"\",IF(H40=\"Per Bundle\",F40,D40)*I40,0)",10],"41,1":["NUS-PLINT-06",null,8],"41,2":["GF Lintel Closures 152mm (6in)",null,8],"41,3":["ACCESSORIES",null,8],"41,4":[72,null,8,1],"41,5":[60,null,8],"41,6":[2,null,8,1],"41,7":[120,null,8],"41,8":["Per Each",null,8],"41,9":[null,"IFERROR(VLOOKUP(A41,$A$4:$F$22,6,FALSE),\"\")",8],"41,10":["opening heads",null,9],"41,11":[null,"IF(I41<>\"\",IF(H41=\"Per Bundle\",F41,D41)*I41,0)",10],"42,1":["NUS-ABLOK-06",null,8],"42,2":["GF Form-Lock 152mm (6in) - 3.048 m pieces",null,8],"42,3":["ACCESSORIES",null,8],"42,4":[73,null,8,1],"42,5":[10,null,8],"42,6":[8,null,8,1],"42,7":[80,null,8],"42,8":["Per Bundle",null,8],"42,9":[null,"IFERROR(VLOOKUP(A42,$A$4:$F$22,6,FALSE),\"\")",8],"42,10":["first + last course of the level",null,9],"42,11":[null,"IF(I42<>\"\",IF(H42=\"Per Bundle\",F42,D42)*I42,0)",10],"43,1":["NUS-IX496-06",null,8],"43,2":["FF 6in XR35 Straight",null,8],"43,3":["ICF FORMS",null,8],"43,4":[66,null,8,1],"43,5":[2,null,8],"43,6":[33,null,8,1],"43,7":[66,null,8],"43,8":["Per Each",null,8],"43,9":[null,"IFERROR(VLOOKUP(A43,$A$4:$F$22,6,FALSE),\"\")",8],"43,10":["Report Tool: whole forms, no cut",null,9],"43,11":[null,"IF(I43<>\"\",IF(H43=\"Per Bundle\",F43,D43)*I43,0)",10],"44,1":["NUS-IX496-06",null,8],"44,2":["FF 6in XR35 Straight PC (Pre-Cut)",null,8],"44,3":["ICF FORMS",null,8],"44,4":[116,null,8,1],"44,5":[2,null,8],"44,6":[58,null,8,1],"44,7":[116,null,8],"44,8":["Per Each",null,8],"44,9":[null,"IFERROR(VLOOKUP(A44,$A$4:$F$22,6,FALSE),\"\")",8],"44,10":["Report Tool optimiser: 232 cut pieces -> 116 pre-cut forms (10.2% waste, whole level)",null,9],"44,11":[null,"IF(I44<>\"\",IF(H44=\"Per Bundle\",F44,D44)*I44,0)",10],"45,1":["NUS-IX490-06",null,8],"45,2":["FF 6in XR35 90 Corner",null,8],"45,3":["ICF FORMS",null,8],"45,4":[120,null,8,1],"45,5":[4,null,8],"45,6":[30,null,8,1],"45,7":[120,null,8],"45,8":["Per Each",null,8],"45,9":[null,"IFERROR(VLOOKUP(A45,$A$4:$F$22,6,FALSE),\"\")",8],"45,10":["Report Tool: 20 corners x 6 courses",null,9],"45,11":[null,"IF(I45<>\"\",IF(H45=\"Per Bundle\",F45,D45)*I45,0)",10],"46,1":["NUS-A0ECF-06",null,8],"46,2":["FF End Caps 152mm (6in) - jambs and sills",null,8],"46,3":["ACCESSORIES",null,8],"46,4":[228,null,8,1],"46,5":[40,null,8],"46,6":[6,null,8,1],"46,7":[240,null,8],"46,8":["Per Bundle",null,8],"46,9":[null,"IFERROR(VLOOKUP(A46,$A$4:$F$22,6,FALSE),\"\")",8],"46,10":["22 openings; XR35-specific end cap to be confirmed",null,9],"46,11":[null,"IF(I46<>\"\",IF(H46=\"Per Bundle\",F46,D46)*I46,0)",10],"47,1":["NUS-PLINT-06",null,8],"47,2":["FF Lintel Closures 152mm (6in)",null,8],"47,3":["ACCESSORIES",null,8],"47,4":[48,null,8,1],"47,5":[60,null,8],"47,6":[1,null,8,1],"47,7":[60,null,8],"47,8":["Per Each",null,8],"47,9":[null,"IFERROR(VLOOKUP(A47,$A$4:$F$22,6,FALSE),\"\")",8],"47,10":["opening heads",null,9],"47,11":[null,"IF(I47<>\"\",IF(H47=\"Per Bundle\",F47,D47)*I47,0)",10],"48,1":["NUS-ABLOK-06",null,8],"48,2":["FF Form-Lock 152mm (6in) - 3.048 m pieces",null,8],"48,3":["ACCESSORIES",null,8],"48,4":[71,null,8,1],"48,5":[10,null,8],"48,6":[8,null,8,1],"48,7":[80,null,8],"48,8":["Per Bundle",null,8],"48,9":[null,"IFERROR(VLOOKUP(A48,$A$4:$F$22,6,FALSE),\"\")",8],"48,10":["first + last course of the level",null,9],"48,11":[null,"IF(I48<>\"\",IF(H48=\"Per Bundle\",F48,D48)*I48,0)",10],"49,1":["NUS-VJC-BOX",null,8],"49,2":["VJC Clips (50 clips per box)",null,8],"49,3":["ACCESSORIES",null,8],"49,4":[2346,null,8,1],"49,5":[50,null,8],"49,6":[47,null,8,1],"49,7":[2350,null,8],"49,8":["Per Bundle",null,8],"49,9":[null,"IFERROR(VLOOKUP(A49,$A$4:$F$22,6,FALSE),\"\")",8],"49,10":["2 per vertical joint",null,9],"49,11":[null,"IF(I49<>\"\",IF(H49=\"Per Bundle\",F49,D49)*I49,0)",10],"50,1":["NUS-FT-BOX",null,8],"50,2":["Fibre Tape (rolls; 10 per box)",null,8],"50,3":["ACCESSORIES",null,8],"50,4":[24,null,8,1],"50,5":[10,null,8],"50,6":[3,null,8,1],"50,7":[30,null,8],"50,8":["Per Bundle",null,8],"50,9":[null,"IFERROR(VLOOKUP(A50,$A$4:$F$22,6,FALSE),\"\")",8],"50,10":["1 roll / 50 forms",null,9],"50,11":[null,"IF(I50<>\"\",IF(H50=\"Per Bundle\",F50,D50)*I50,0)",10],"51,1":["NUS-PT-BOX",null,8],"51,2":["Protective Tape (rolls; 4 per box)",null,8],"51,3":["ACCESSORIES",null,8],"51,4":[65,null,8,1],"51,5":[4,null,8],"51,6":[17,null,8,1],"51,7":[68,null,8],"51,8":["Per Bundle",null,8],"51,9":[null,"IFERROR(VLOOKUP(A51,$A$4:$F$22,6,FALSE),\"\")",8],"51,10":["per course, both sides",null,9],"51,11":[null,"IF(I51<>\"\",IF(H51=\"Per Bundle\",F51,D51)*I51,0)",10],"52,1":["NUS-SF-BOX",null,8],"52,2":["Spray Foam (cans; 12 per box)",null,8],"52,3":["ACCESSORIES",null,8],"52,4":[54,null,8,1],"52,5":[12,null,8],"52,6":[5,null,8,1],"52,7":[60,null,8],"52,8":["Per Bundle",null,8],"52,9":[null,"IFERROR(VLOOKUP(A52,$A$4:$F$22,6,FALSE),\"\")",8],"52,10":["1 can / 22 forms",null,9],"52,11":[null,"IF(I52<>\"\",IF(H52=\"Per Bundle\",F52,D52)*I52,0)",10]},"freeze":"A26","tab":null},{"name":"Pricing Summary","cols":[243,131],"heights":{},"rows":[1,2,3,4,5],"merges":[],"cells":{"1,1":["PRICING SUMMARY (from your rates)",null,0],"2,1":["ICF FORMS",null,1],"2,2":[null,"SUMIF('Bill of Materials'!C26:C52,\"ICF FORMS\",'Bill of Materials'!K26:K52)",11],"3,1":["ICF WEBS",null,1],"3,2":[null,"SUMIF('Bill of Materials'!C26:C52,\"ICF WEBS\",'Bill of Materials'!K26:K52)",11],"4,1":["ACCESSORIES",null,1],"4,2":[null,"SUMIF('Bill of Materials'!C26:C52,\"ACCESSORIES\",'Bill of Materials'!K26:K52)",11],"5,1":["TOTAL (ex VAT)",null,2],"5,2":[null,"SUM('Bill of Materials'!K26:K52)",11]},"freeze":null,"tab":null},{"name":"Basis & RFIs","cols":[1055],"heights":{},"rows":[1,2,3,4,5,6,7,8,9,10,11,12,13,14,15,16,17,18,19,20,21,22,23,24],"merges":[],"cells":{"1,1":["BASIS OF TAKE-OFF",null,0],"2,1":["- QUANTITIES TAKEN FROM THE BUILDEASE 3D MODEL (BCDS): every form placed course by course, Nudura bond checked per run, stack joints set, webs audited. 8in Std + 6in XR35 forms = the BuildEase Report Tool pre-cut optimiser (whole forms + cut pieces nested into pre-cut forms); 450-core panels = whole + cut pieces nested on their measured lengths.",null,3],"3,1":["- LG: BDI 20164022 S1 02 C4 ICF walls - 450 core (blue) and 200 core (green) - from transfer deck SSL-1 43,262 to Top of ICF 46,587 (3,325 mm = 7 courses + a 125 mm pre-cut top course). Section B (S3 02 C4) confirms levels.",null,3],"4,1":["- LG run (model): 450 core 86.8 m, 200 core 56.8 m per course. S1 02 W wall 310 mm step and two 1.55 m pier boxes built straight on one 450 line; 450 walls butt the 200 front wall (no corner forms) - RFI.",null,3],"5,1":["- LG 450 core: unassembled XR35 panels + 12in/6in insert webs + 4-Way Web Connectors; every 90 corner = two straights butting and lapping, swapping every course (inner panel pre-cut back, no 450 corner form).",null,3],"6,1":["- 450 core OPENINGS: no Nudura end caps or lintel closures - timber bucks + head formwork BY OTHERS (first option), alternatively unassembled panels cut to suit. None drawn in the LG 450 walls at present.",null,3],"7,1":["- LG 200 walls: openings at the S1 02 gaps - pool front glazing 2,743 mm high (6 courses), plant-room doors 2,100; 8in end caps / lintel closures.",null,3],"8,1":["- GF/FF: the architect's external walls (Badgers Hollow - Proposed Layouts) in 6in XR35 per Tom 02.11, outline traced at 42.5 mm/pt (checked against BDI 1:50: 24.1 m vs 24.2 m overall). Chimney breasts and steps < 500 mm built straight.",null,3],"9,1":["- GF: 110.7 m outer face, 28 corners, 27 openings 38.4 m (head 2,400, 2.1 m high). FF: 107.4 m, 20 corners, 22 openings 18.9 m (head 2,400, 1.7 m high). Openings from the plan gaps; schedule RFI.",null,3],"10,1":["- GF+FF continuous from SSL0 46,987 to U/S wall plate 52,962 = 5,975 mm = 13 courses (5,944) + 31 mm packing at the plate; GF 7 courses on the GF outline, FF 6 on the FF outline.",null,3],"11,1":["- No elevations issued - gables, chimneys above the plate, parapets and exact opening heights are EXCLUDED/assumed; RFI raised.",null,3],"12,1":["- Internal walls at GF/FF excluded. Alignment, rebar, concrete, floor ledgers by others.",null,3],"14,1":["QUERIES / RFIs",null,0],"15,1":["- Elevations required: gable walls, chimneys and any walls above the wall plate are not included.",null,3],"16,1":["- Window/door schedule (sizes + head/sill heights) - openings taken from the plan gaps, heads 2,400 (GF 2.1 m / FF 1.7 m high).",null,3],"17,1":["- LG W wall step / pier boxes and the 450-to-200 butt junctions at the pool front - modelled straight / butted; BDI to confirm.",null,3],"18,1":["- Nudura bond near-misses (6-10 mm off a bond length) on GF/FF runs 567 / 5,037 / 7,052 mm - confirm dims to set them ON bond (no stack joint).",null,3],"19,1":["- Confirm no part of the Lower Ground ICF is already built (Mark: 'built part of the basement already').",null,3],"20,1":["- Confirm GF/FF internal load-bearing walls stay blockwork (not ICF).",null,3],"21,1":["- BDI to confirm the 6in XR35 (152 core) external walls for GF/FF and the floor deck bearing/ledger detail into the ICF.",null,3],"22,1":["- 450 core build-up as BOM A: 12in + 6in webs on a 4-Way Web Connector (adopted 02.11.26).",null,3],"23,1":["- 450 core panels = NUS-IXPAN-00-PC XR35 Panel; insert webs + 4-Way Web Connector not on the UK price list - availability via Tremco.",null,3],"24,1":["- Quantities only: enter your own sale rates in the rate card. Alignment, haulage and site works are not included.",null,3]},"freeze":null,"tab":null}],"styles":[{"b":1,"sz":13.0},{},{"b":1},{"wr":1},{"bg":"#fff59d"},{"b":1,"fc":"#ffffff","bg":"#1f3a5f"},{"bg":"#fff59d","nf":"#,##0.00"},{"b":1,"fc":"#ffffff","bg":"#1f3a5f","bt":[1,"#bfbfbf"],"bb":[1,"#bfbfbf"],"bl":[1,"#bfbfbf"],"br":[1,"#bfbfbf"]},{"bt":[1,"#bfbfbf"],"bb":[1,"#bfbfbf"],"bl":[1,"#bfbfbf"],"br":[1,"#bfbfbf"]},{"wr":1,"bt":[1,"#bfbfbf"],"bb":[1,"#bfbfbf"],"bl":[1,"#bfbfbf"],"br":[1,"#bfbfbf"]},{"bt":[1,"#bfbfbf"],"bb":[1,"#bfbfbf"],"bl":[1,"#bfbfbf"],"br":[1,"#bfbfbf"],"nf":"#,##0.00"},{"nf":"£#,##0.00"}],"names":{},"start":"Bill of Materials"}</script>
 <script>
 "use strict";
 const M = JSON.parse(document.getElementById("model").textContent);
